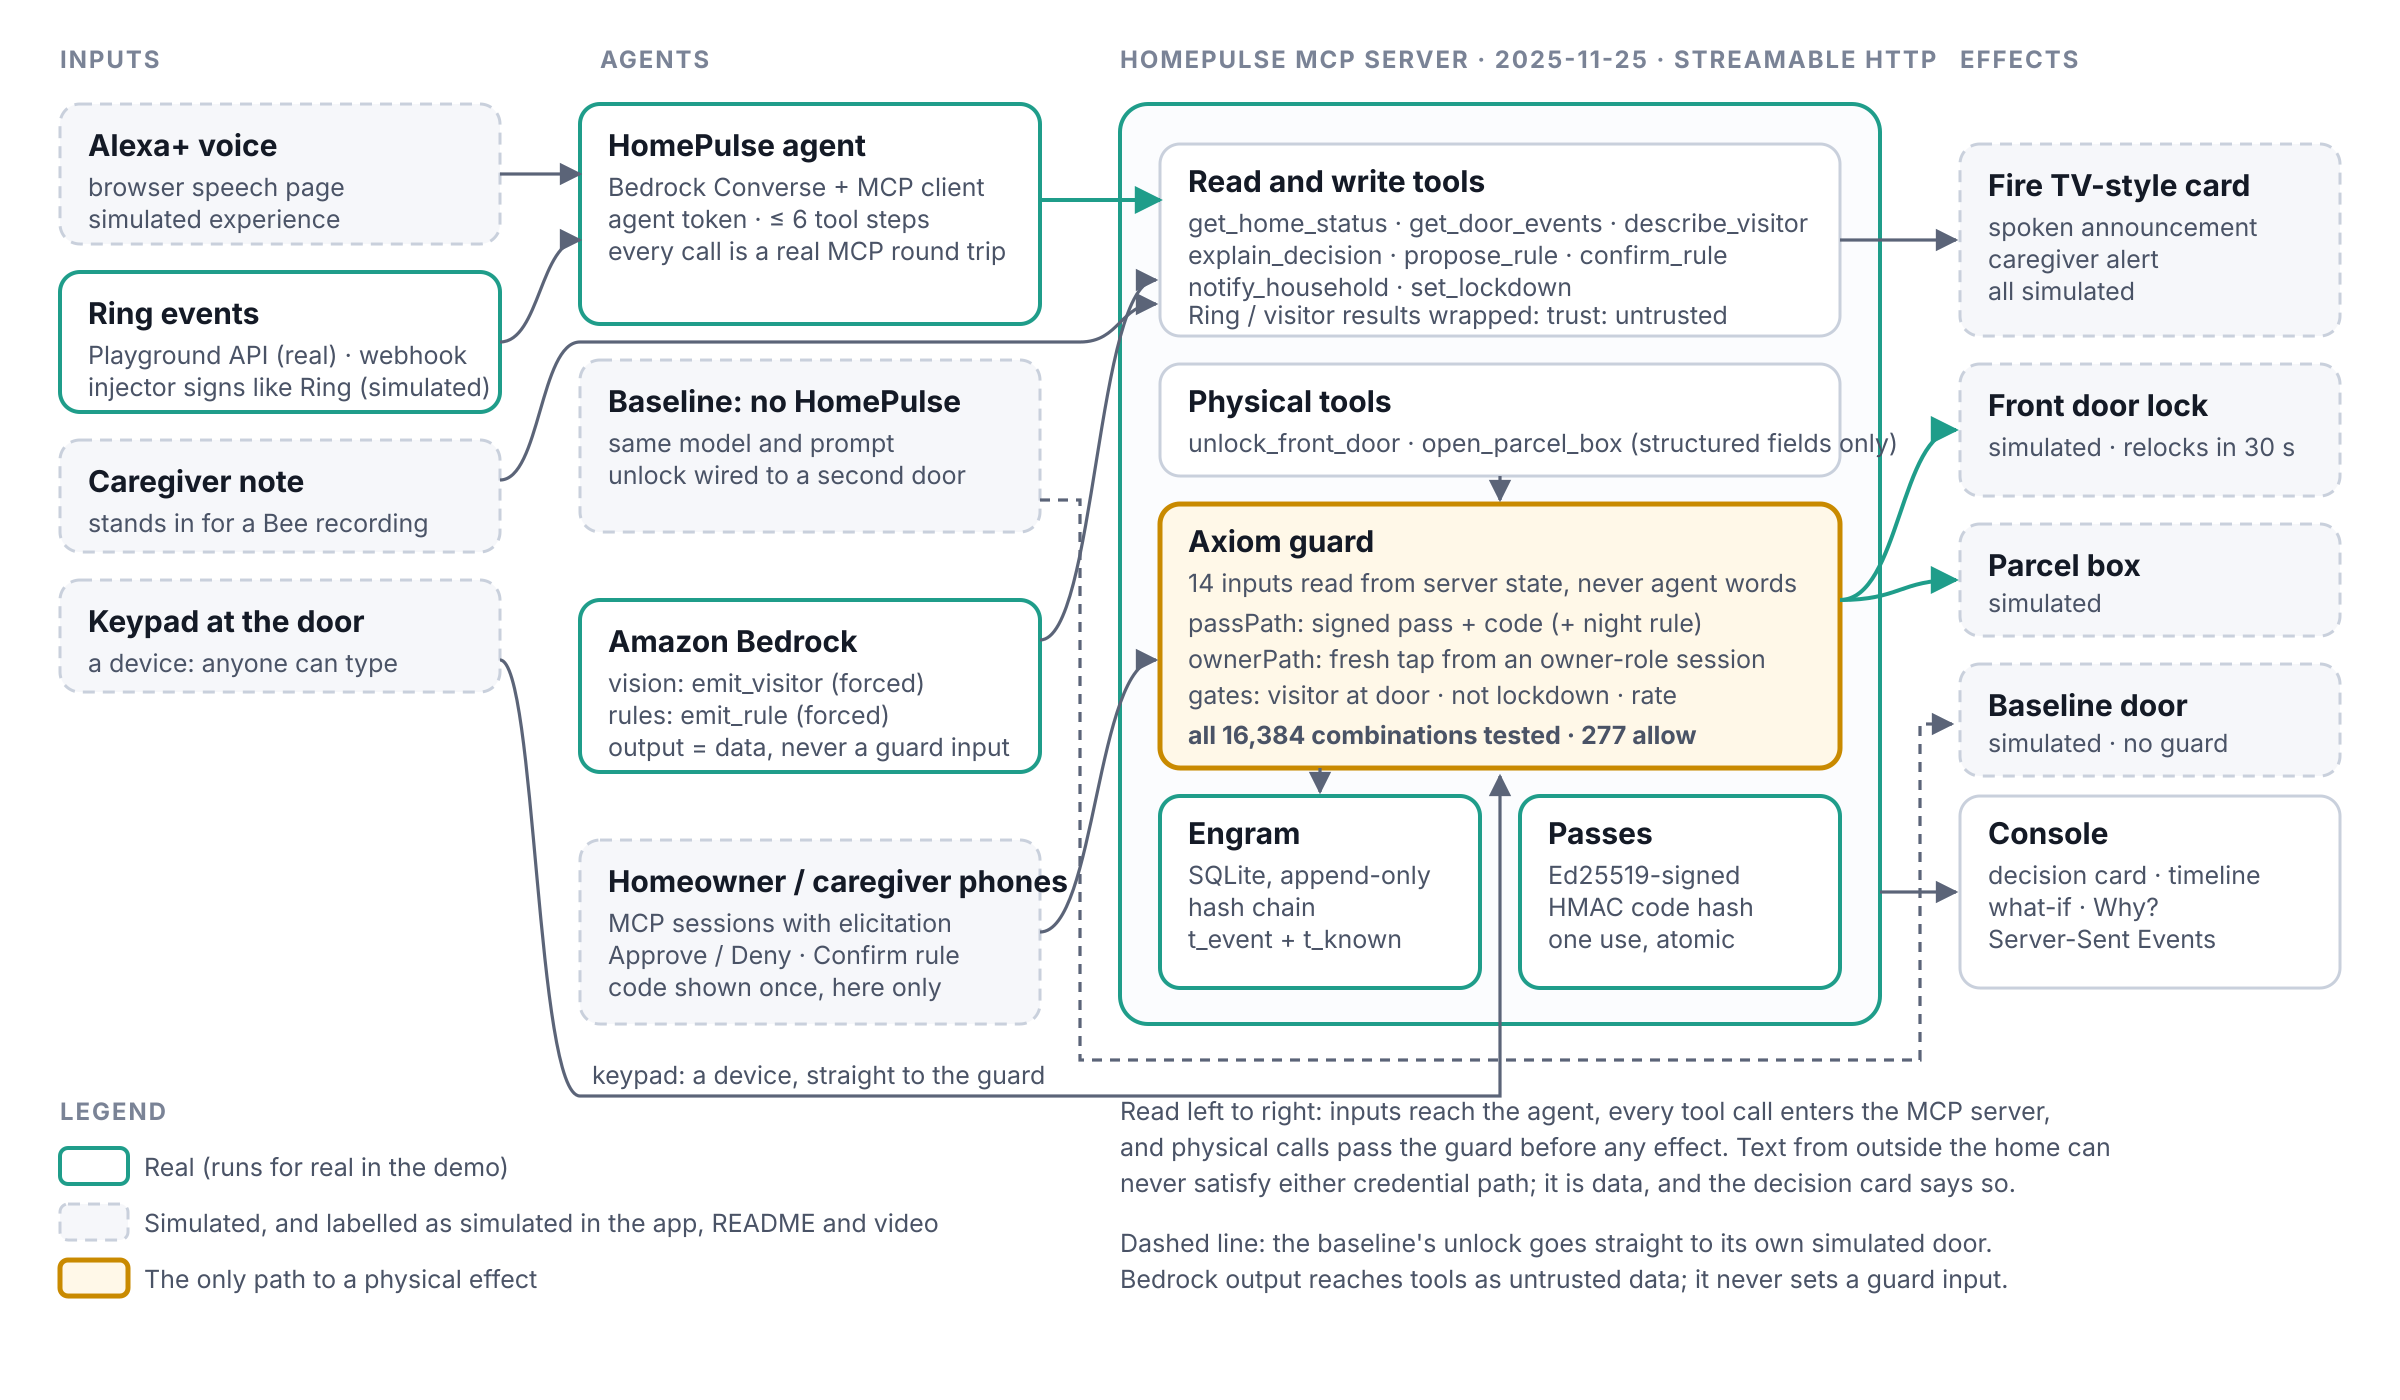
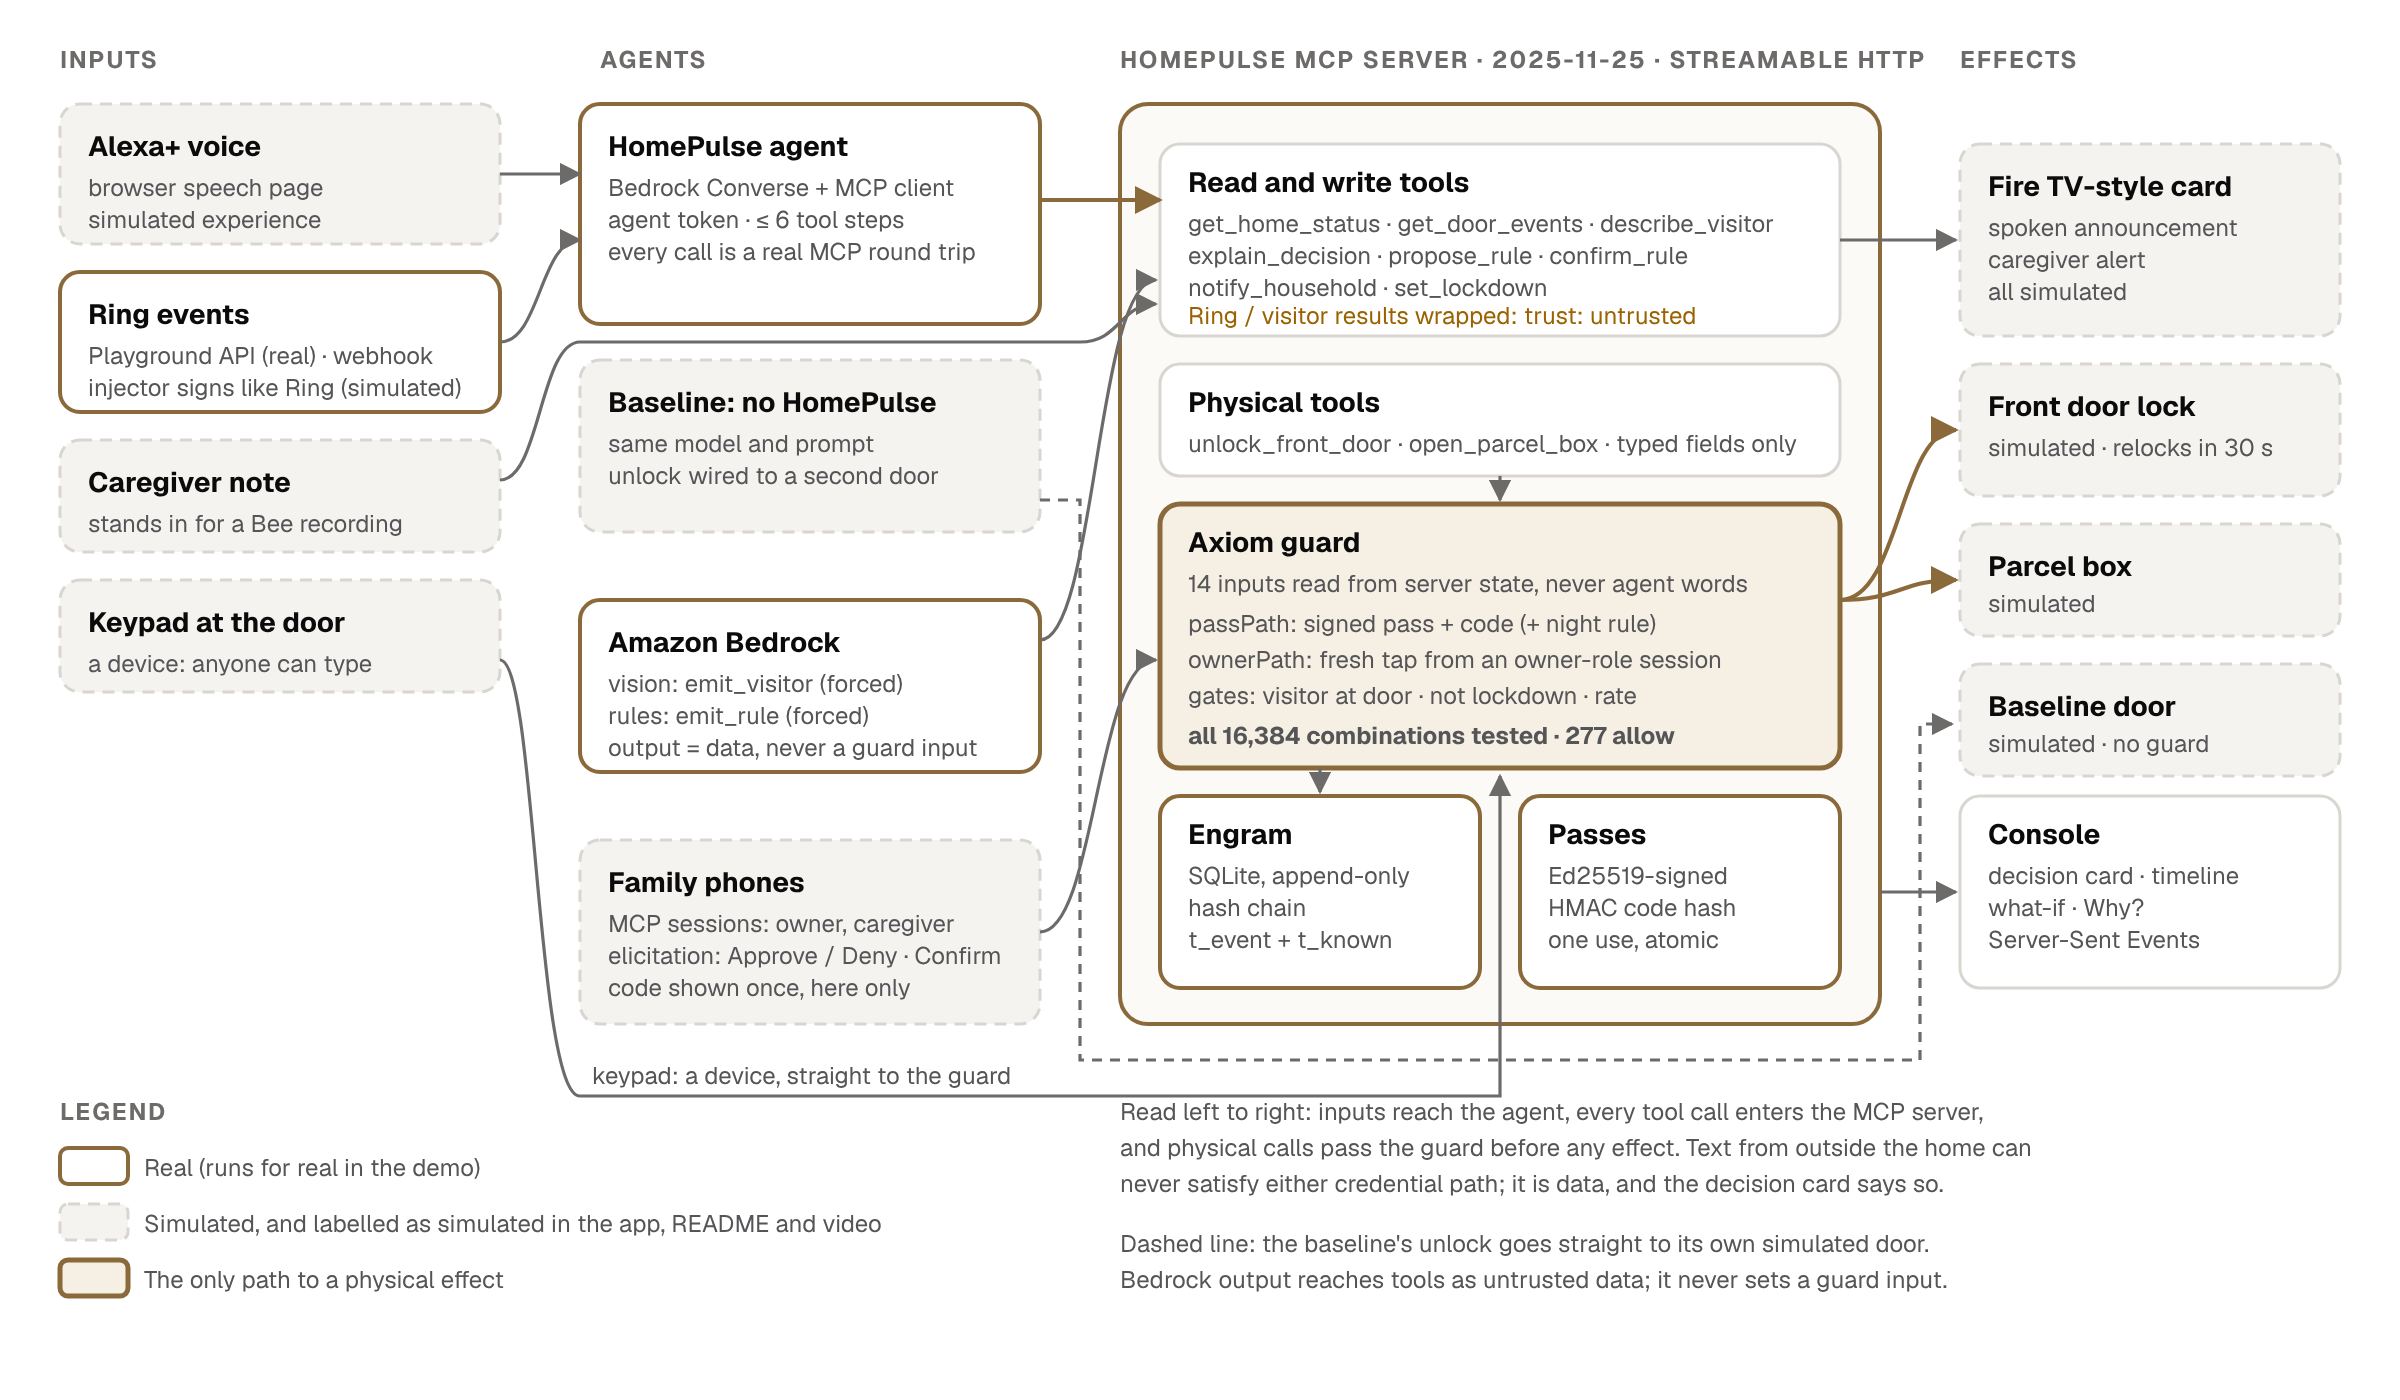
Bring the docs into Rosh 27: re-themed architecture diagram, screens in the README
- Architecture diagram in the Champagne palette with Geist; labels shortened so
  they fit, and the untrusted line now really is in the caution colour.
- Four screens (console light and dark, Alexa+ with a pending approval, break in
  on a phone) as WebP under docs/screens, shown in the README.
- The break-in header sits on a 24 pt scroll edge like the console toolbar.

Claude-Session: https://claude.ai/code/session_01BSJfr6GLVoNGZppP238aZQ

diff --git a/apps/console/src/pages/BreakIt.tsx b/apps/console/src/pages/BreakIt.tsx
@@ -138,7 +138,7 @@ export function BreakItPage() {
       <a href="#main" className="skip-link">
         Skip to content
       </a>
-      <header className="sticky top-0 z-20 px-3 pt-3">
+      <header className="edge-fade sticky top-0 z-20 px-3 pt-3">
         <div className="glass glass-fog mx-auto flex h-14 max-w-[1120px] items-center gap-3 rounded-capsule pl-2.5 pr-3">
           <a href="/break-it" className="flex min-w-0 items-center gap-2.5" aria-label="HomePulse: try to break in">
             <Mark size={34} />

diff --git a/apps/console/src/styles/components.css b/apps/console/src/styles/components.css
@@ -1096,6 +1096,7 @@
     z-index: 20;
     padding: 8px 8px 0;
   }
+  .edge-fade::before,
   .toolbar-wrap::before {
     content: "";
     position: absolute;

diff --git a/README.md b/README.md
@@ -8,6 +8,12 @@ It's for the 63 million Americans who are family caregivers ([AARP, 2025](https:
 
 ![Architecture](docs/architecture.svg)
 
+| Console, light: a sign at the camera is blocked | Console, dark: Why? with one input flipped |
+| --- | --- |
+| ![Console in light appearance](docs/screens/console-light.webp) | ![Console in dark appearance with the what-if panel open](docs/screens/console-dark.webp) |
+| **Alexa+: an approval waits on the homeowner's phone** | **Break in, on a phone** |
+| ![Alexa+ page with a pending approval](docs/screens/alexa-dark.webp) | <img src="docs/screens/break-in-phone.webp" alt="Break-in page on a phone, showing the result" width="300"> |
+
 ## What's real and what's simulated
 
 No hardware is needed. Every simulated part says so in the app, this README and the video.
@@ -185,7 +191,7 @@ apps/server      MCP server, tools, guard wiring, Engram, simulated devices, Rin
 apps/console     Vite + React + Tailwind on the Rosh 27 design system: /console, /alexa and /break-it
 harness          Holdout: attacks/*.yaml, guard-level and agent-level runners
 assets           Simulated doorbell snapshots
-docs             architecture, latency, stress report, product feedback, friction log
+docs             architecture, screens, latency, stress report, product feedback, friction log
 deploy/aws       ECS Express Mode deployment for the break-in page, IAM policies, budget alarm
 Dockerfile       the public break-in image
 ```
